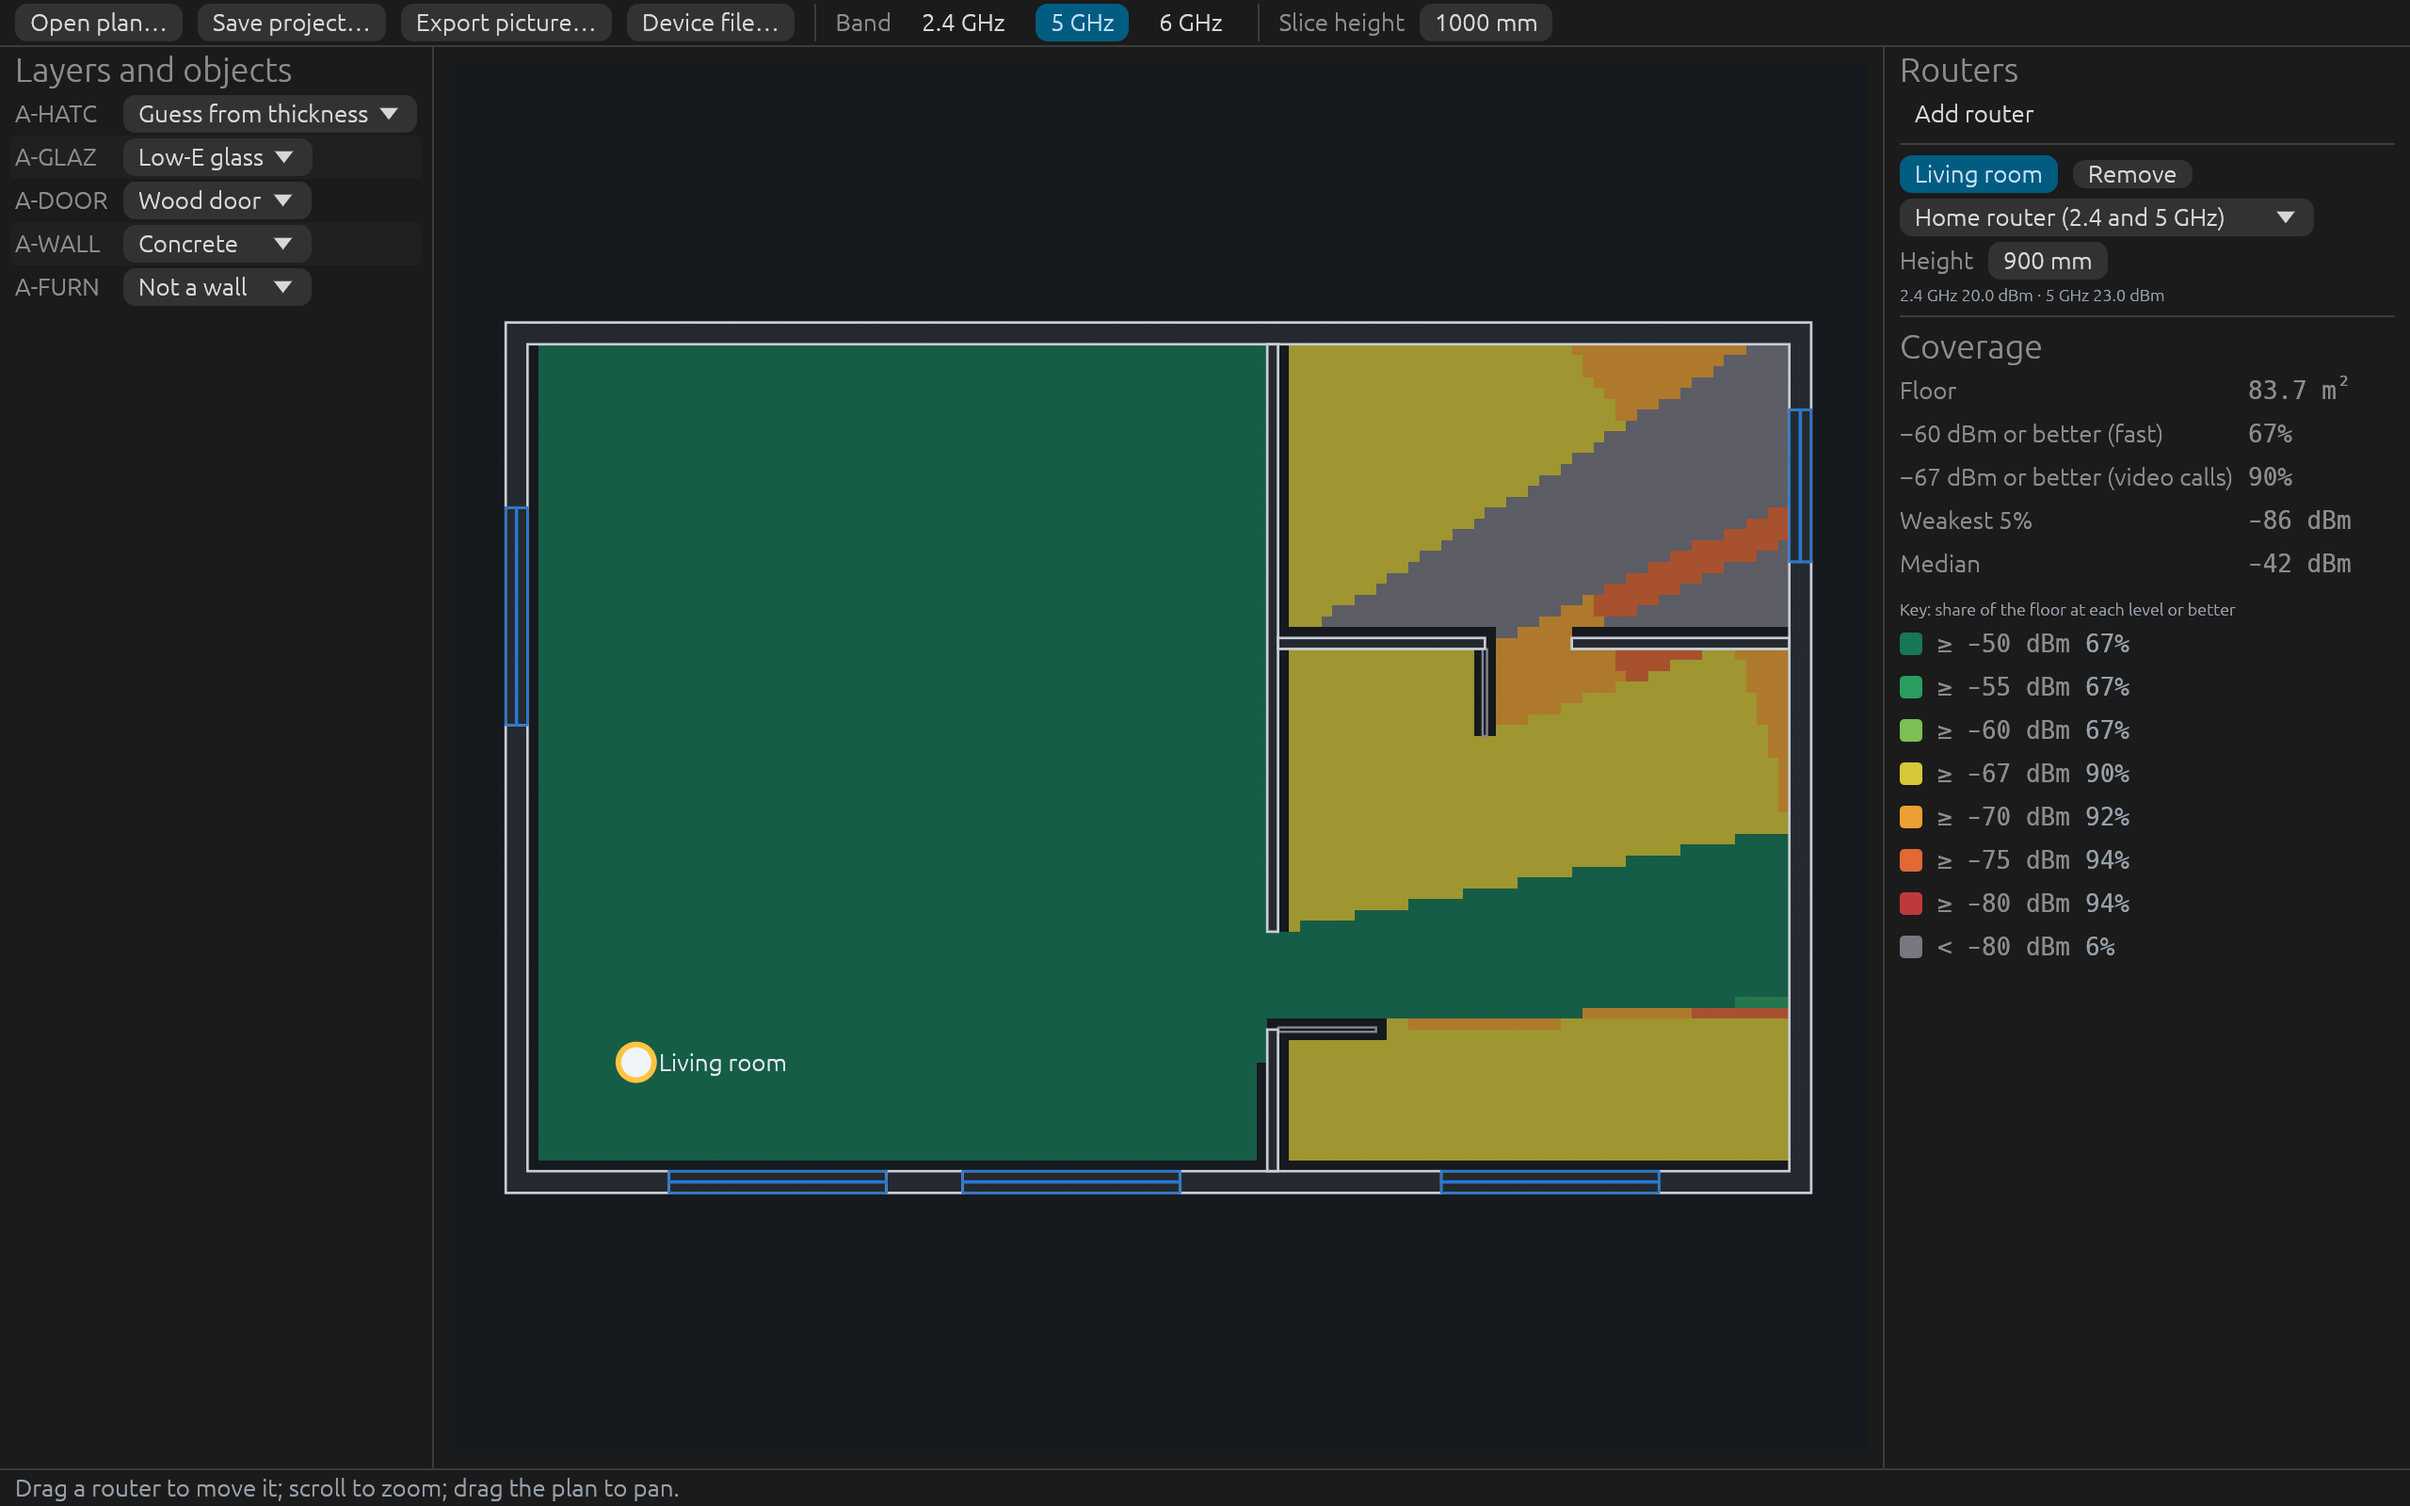
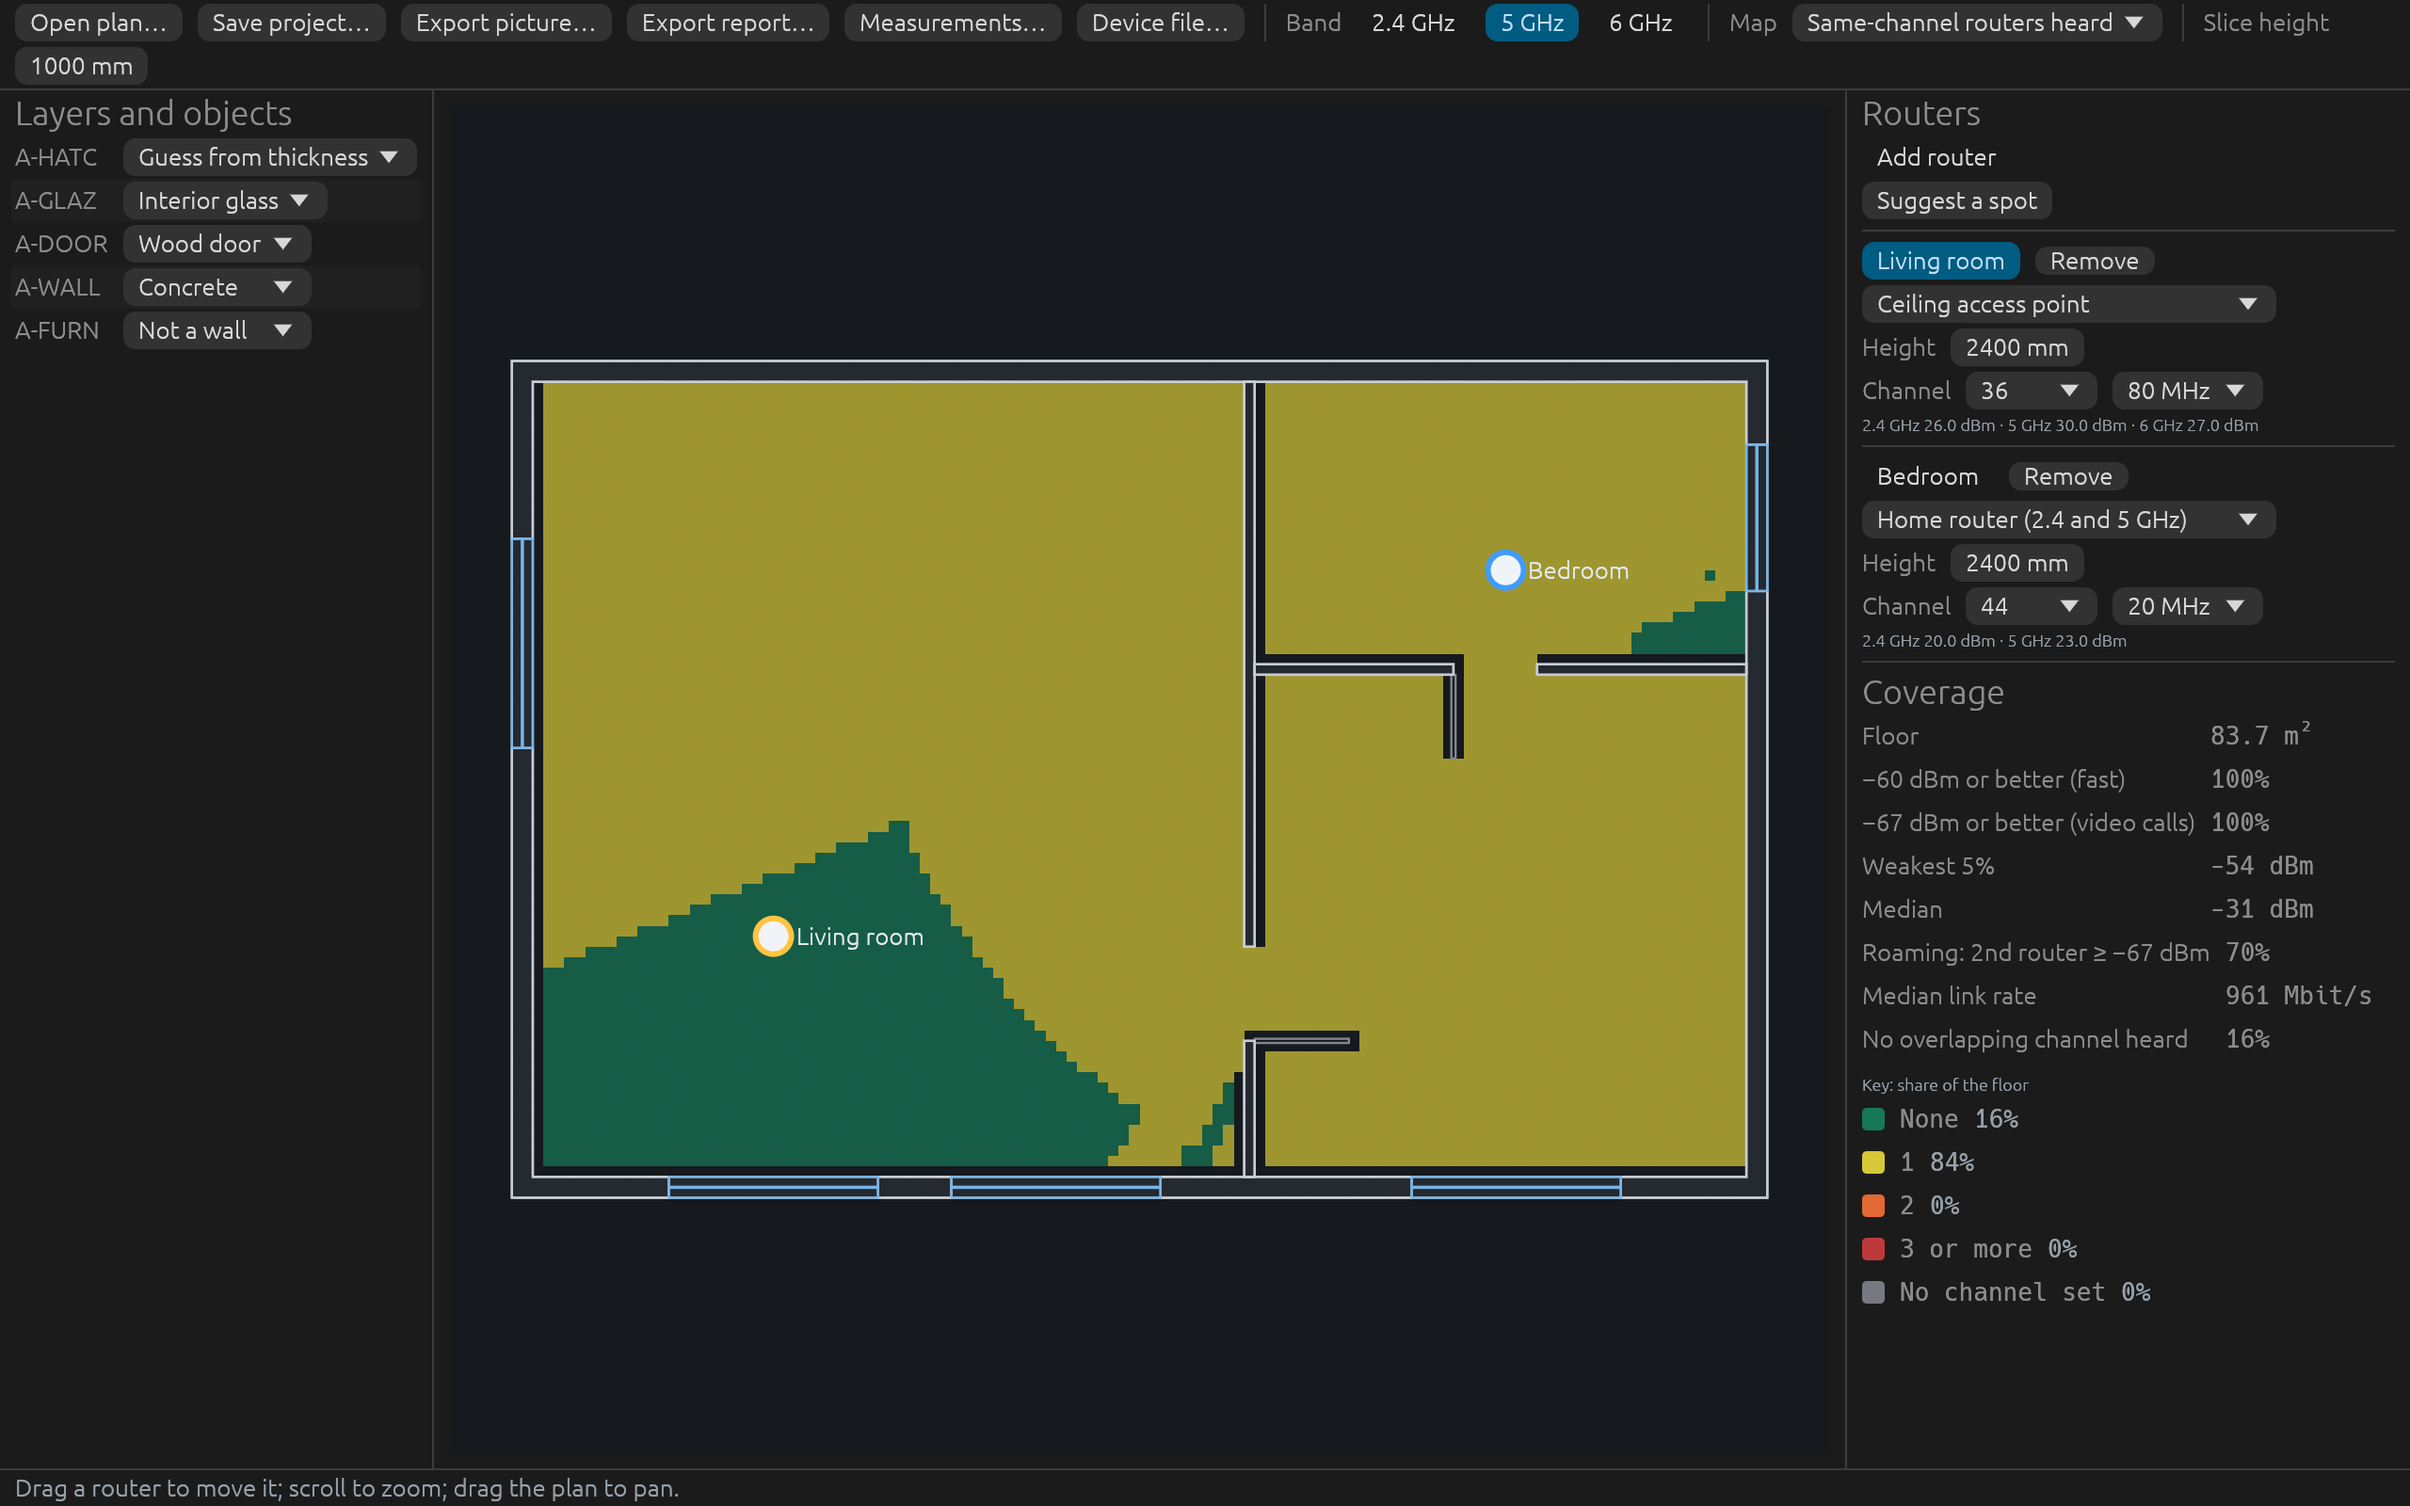
Window caches figures per change; leakage reaches 3 m past the plan's edge; scrolling router panel; clearer docs
- The figures and the survey comparison are worked out once per engine change, not per frame.
- The leakage ring counts the usual grid's margin, so it ends 3 m past the plan's edge, and the
  labels say so (spaces the walls don't enclose count as outside).
- Docs: channel width defaults, the sensitivity table's source, attribution rows for the
  made-up examples; the README screenshot shows the channel-overlap map.

diff --git a/apps/radiocraft/src/app.rs b/apps/radiocraft/src/app.rs
@@ -42,6 +42,9 @@ pub struct App {
     slice: f64,
     /// `--screenshot`: where to save a picture of the window, and the frames drawn so far.
     screenshot: Option<(String, u32)>,
+    /// The figures and the survey comparison, kept until the engine changes (they cost a pass
+    /// over the floor and over every measured point).
+    figures_cache: Option<(u64, Value, Option<Value>)>,
     /// The picture, once the window has sent it.
     shot: std::sync::Arc<std::sync::Mutex<Option<std::sync::Arc<egui::ColorImage>>>>,
 }
@@ -66,6 +69,7 @@ impl App {
             adding: false,
             slice: 1000.0,
             screenshot: screenshot.map(|p| (p, 0)),
+            figures_cache: None,
             shot: Default::default(),
         };
         if let Some(path) = path {
@@ -563,7 +567,27 @@ impl App {
             ui.label(tr("Add a router with a radio in this band."));
         }
         // The figures only the engine's report has: roaming, link rate, channels, leakage.
-        if let Ok(f) = self.engine.execute("coverage.compute", &json!({})) {
+        let revision = self.engine.revision();
+        if self
+            .figures_cache
+            .as_ref()
+            .is_none_or(|(r, _, _)| *r != revision)
+        {
+            let figures = self
+                .engine
+                .execute("coverage.compute", &json!({}))
+                .unwrap_or(Value::Null);
+            let survey = (!self.engine.survey().is_empty())
+                .then(|| self.engine.execute("survey.compare", &json!({})).ok())
+                .flatten();
+            self.figures_cache = Some((revision, figures, survey));
+        }
+        let (figures, survey) = self
+            .figures_cache
+            .as_ref()
+            .map(|(_, f, s)| (f.clone(), s.clone()))
+            .unwrap_or((Value::Null, None));
+        if let f @ Value::Object(_) = figures {
             egui::Grid::new("more_figures")
                 .num_columns(2)
                 .show(ui, |ui| {
@@ -602,7 +626,7 @@ impl App {
             ui.add_space(6.0);
             ui.label(egui::RichText::new(tr("Measurements")).strong());
             let band = self.engine.settings().band;
-            if let Ok(v) = self.engine.execute("survey.compare", &json!({})) {
+            if let Some(v) = survey {
                 let b = &v["bands"][band.name()];
                 if let (Some(n), Some(mean), Some(rms)) = (
                     b["points"].as_u64(),
@@ -645,7 +669,9 @@ impl App {
         ui.add_space(6.0);
         let key = match c.view {
             Map::Serving | Map::Overlap => tr("Key: share of the floor"),
-            Map::Leakage => tr("Key: share of the area within 3 m outside the walls"),
+            Map::Leakage => {
+                tr("Key: share of the area outside the walls, within 3 m of the plan's edge")
+            }
             _ => tr("Key: share of the floor at each level or better"),
         };
         ui.label(egui::RichText::new(key).color(TOKENS.text_dim).small());
@@ -976,7 +1002,11 @@ impl eframe::App for App {
             .resizable(true)
             .default_size(300.0)
             .max_size(380.0)
-            .show(ui, |ui| self.routers_panel(ui));
+            .show(ui, |ui| {
+                egui::ScrollArea::vertical()
+                    .id_salt("routers")
+                    .show(ui, |ui| self.routers_panel(ui));
+            });
         egui::CentralPanel::default().show(ui, |ui| self.plan_view(ui));
     }
 }

diff --git a/crates/radiocraft-engine/src/engine.rs b/crates/radiocraft-engine/src/engine.rs
@@ -21,7 +21,7 @@ const MAX_FILE_BYTES: u64 = 512 << 20;
 const MAX_COORD: f64 = 1.0e8;
 /// The most routers a plan has.
 const MAX_ROUTERS: usize = 64;
-/// How far past the floor's outline the leakage map looks (mm).
+/// How far past the plan's outer edge (its bounding box) the leakage map looks (mm).
 const LEAK_MM: f64 = 3000.0;
 /// The most signals (cells × routers) kept at once: 64 MB.
 const MAX_SIGNALS: usize = 16_000_000;
@@ -227,7 +227,7 @@ pub const COMMANDS: &[(&str, &str)] = &[
     ),
     (
         "router.add",
-        "{at: [x, y], height?, name?, device? | eirp_dbm?: dBm | {\"2.4\",\"5\",\"6\"}, channels?: {\"2.4\": 6, \"5\": {channel: 36, width: 80}, ...}} → {id}",
+        "{at: [x, y], height?, name?, device? | eirp_dbm?: dBm | {\"2.4\",\"5\",\"6\"}, channels?: {\"2.4\": 6, \"5\": {channel: 36, width: 80}, ...} (a bare number is 20 MHz; no width: 20 MHz on 2.4, 80 on 5 and 6)} → {id}",
     ),
     ("router.list", "{} → the routers"),
     (
@@ -1019,7 +1019,8 @@ impl Engine {
         // The leakage map pads the same grid with whole cells, all outside the floor, so the
         // floor's cells, and its figures, are the same in every map.
         let (grid, cells) = if outside {
-            let k = (LEAK_MM / s.grid_step).ceil() as usize;
+            // Out to LEAK_MM past the plan's outer edge, counting the usual grid's own margin.
+            let k = ((LEAK_MM - margin) / s.grid_step).ceil().max(0.0) as usize;
             let big = Grid {
                 origin: [
                     grid.origin[0] - k as f64 * grid.step,
@@ -1470,7 +1471,8 @@ impl Engine {
                     && let Some(v) = f["leakage"]["m2_at_least_67"].as_f64()
                 {
                     rows.push((
-                        "Outside the walls (within 3 m) at −67 dBm or better".to_string(),
+                        "Outside the walls, within 3 m of the plan's edge, at −67 dBm or better"
+                            .to_string(),
                         format!("{v:.1} m²"),
                     ));
                 }
@@ -1488,7 +1490,7 @@ impl Engine {
                     png,
                     key_note: match view {
                         View::Serving | View::Overlap => "Share of the floor".to_string(),
-                        View::Leakage => "Share of the area within 3 m outside the walls, at each level or better".to_string(),
+                        View::Leakage => "Share of the area outside the walls, within 3 m of the plan's edge, at each level or better (wall cavities and unenclosed spaces inside the plan count too)".to_string(),
                         View::Rate => "Share of the floor at each rate or better; the most the signal allows with nothing else on the air".to_string(),
                         _ => "Share of the floor at each level or better".to_string(),
                     },

diff --git a/crates/radiocraft-engine/src/radio.rs b/crates/radiocraft-engine/src/radio.rs
@@ -136,8 +136,9 @@ impl Channel {
 pub const HEARD_DBM: f64 = -82.0;
 
 /// The receiver minimum input sensitivity at 20 MHz for MCS 0 to 9 (dBm), from the IEEE 802.11
-/// standard's VHT table (802.11-2020, Table 21-25; HE uses the same values for these MCS). Each
-/// doubling of the width needs 3 dB more.
+/// standard's VHT table (802.11-2020, Table 21-25), used here for HE (802.11ax) as well; MCS 10
+/// and 11 are left out until checked against the HE table. Each doubling of the width needs
+/// 3 dB more.
 const SENSITIVITY_20: [f64; 10] = [
     -82.0, -79.0, -77.0, -74.0, -70.0, -66.0, -65.0, -64.0, -59.0, -57.0,
 ];

diff --git a/README.md b/README.md
@@ -4,7 +4,7 @@ RadioCraft plans Wi-Fi coverage from the floor plans and models you already have
 from CADCraft, or an OBJ or STL model exported from SolidCraft. Tell it what each layer or object
 is made of, place routers and access points, and see the predicted signal across the floor.
 
-![RadioCraft with CADCraft's example apartment: concrete walls, a home router in the living room, and the signal falling off behind each wall](docs/screenshot.png)
+![RadioCraft with CADCraft's example apartment: two routers on overlapping 5 GHz channels (36 at 80 MHz and 44), and the map of where a device hears the other one on its channel](docs/screenshot.png)
 
 It is a beta. The numbers are a planning estimate from a simple indoor model, not a site survey;
 see [What the numbers mean](#what-the-numbers-mean).
@@ -25,11 +25,13 @@ see [What the numbers mean](#what-the-numbers-mean).
 - **Coverage.** A heatmap for 2.4, 5 or 6 GHz; the share of the floor at −60 dBm or better (fast)
   and −67 dBm or better (video calls), the weakest 5 % and the median.
 - **Channels.** Give each router a channel and width per band; channels are checked against the
-  band's channel plan.
+  band's channel plan. A bare number (`"5": 36`) is a 20 MHz channel; `{"channel": 36}` without
+  a width is 20 MHz on 2.4 GHz and 80 MHz on 5 and 6 GHz.
 - **Maps.** Besides the signal: the second-strongest signal (is there a router to roam to?), the
   serving router, how many routers on an overlapping channel are heard (at the 802.11 −82 dBm
   level), the estimated link rate (from the 802.11 receiver sensitivity table, with nothing else
-  on the air), and signal reaching up to 3 m outside the walls (leakage).
+  on the air), and signal outside the walls, out to 3 m past the plan's edge (leakage; spaces inside the
+  plan that the walls don't enclose, such as balconies and wall cavities, count as outside).
 - **Probe.** Hover anywhere: the three strongest routers with their signal and channel, the link
   rate, and the routers sharing the channel there.
 - **Suggest a spot.** Place a router where it raises the floor at −67 dBm or better the most,

diff --git a/ATTRIBUTION.md b/ATTRIBUTION.md
@@ -5,3 +5,5 @@
 | `tests/fixtures/cadcraft-apartment.dxf` | storytold/cadcraft, `examples/apartment.dxf` (https://github.com/storytold/cadcraft) | Apache-2.0 | commit a70b9b02e4fb7f2c3b50902d33e8daf96d904053 | A floor plan drawn with CADCraft's commands, used unchanged as a test input |
 | `crates/radiocraft-engine/src/model.rs`, `materials.rs` | Written by this project's author for SolidCraft (tangency-labs/solidcraft#20164) | MIT OR Apache-2.0 | 2026-11-22 | The coverage model and RF material presets, adapted |
 | `docs/screenshot.png` | A screenshot of RadioCraft with the CADCraft fixture above open | MIT OR Apache-2.0 (the plan in it: Apache-2.0) | 2026-11-22 | Made by this project |
+| `docs/examples/survey-synthetic.csv` | Made by this project: synthetic, from RadioCraft's own model of the CADCraft fixture (exponent 3.0, offsets +2 dB at 2.4 GHz and −4 dB at 5 GHz) plus ±2 dB noise; not a measurement | MIT OR Apache-2.0 | 2026-11-22 | For trying measured points and calibration |
+| `docs/examples/cadcraft-apartment.json` | Made by this project: a command script for the CADCraft fixture | MIT OR Apache-2.0 | 2026-11-22 | |
